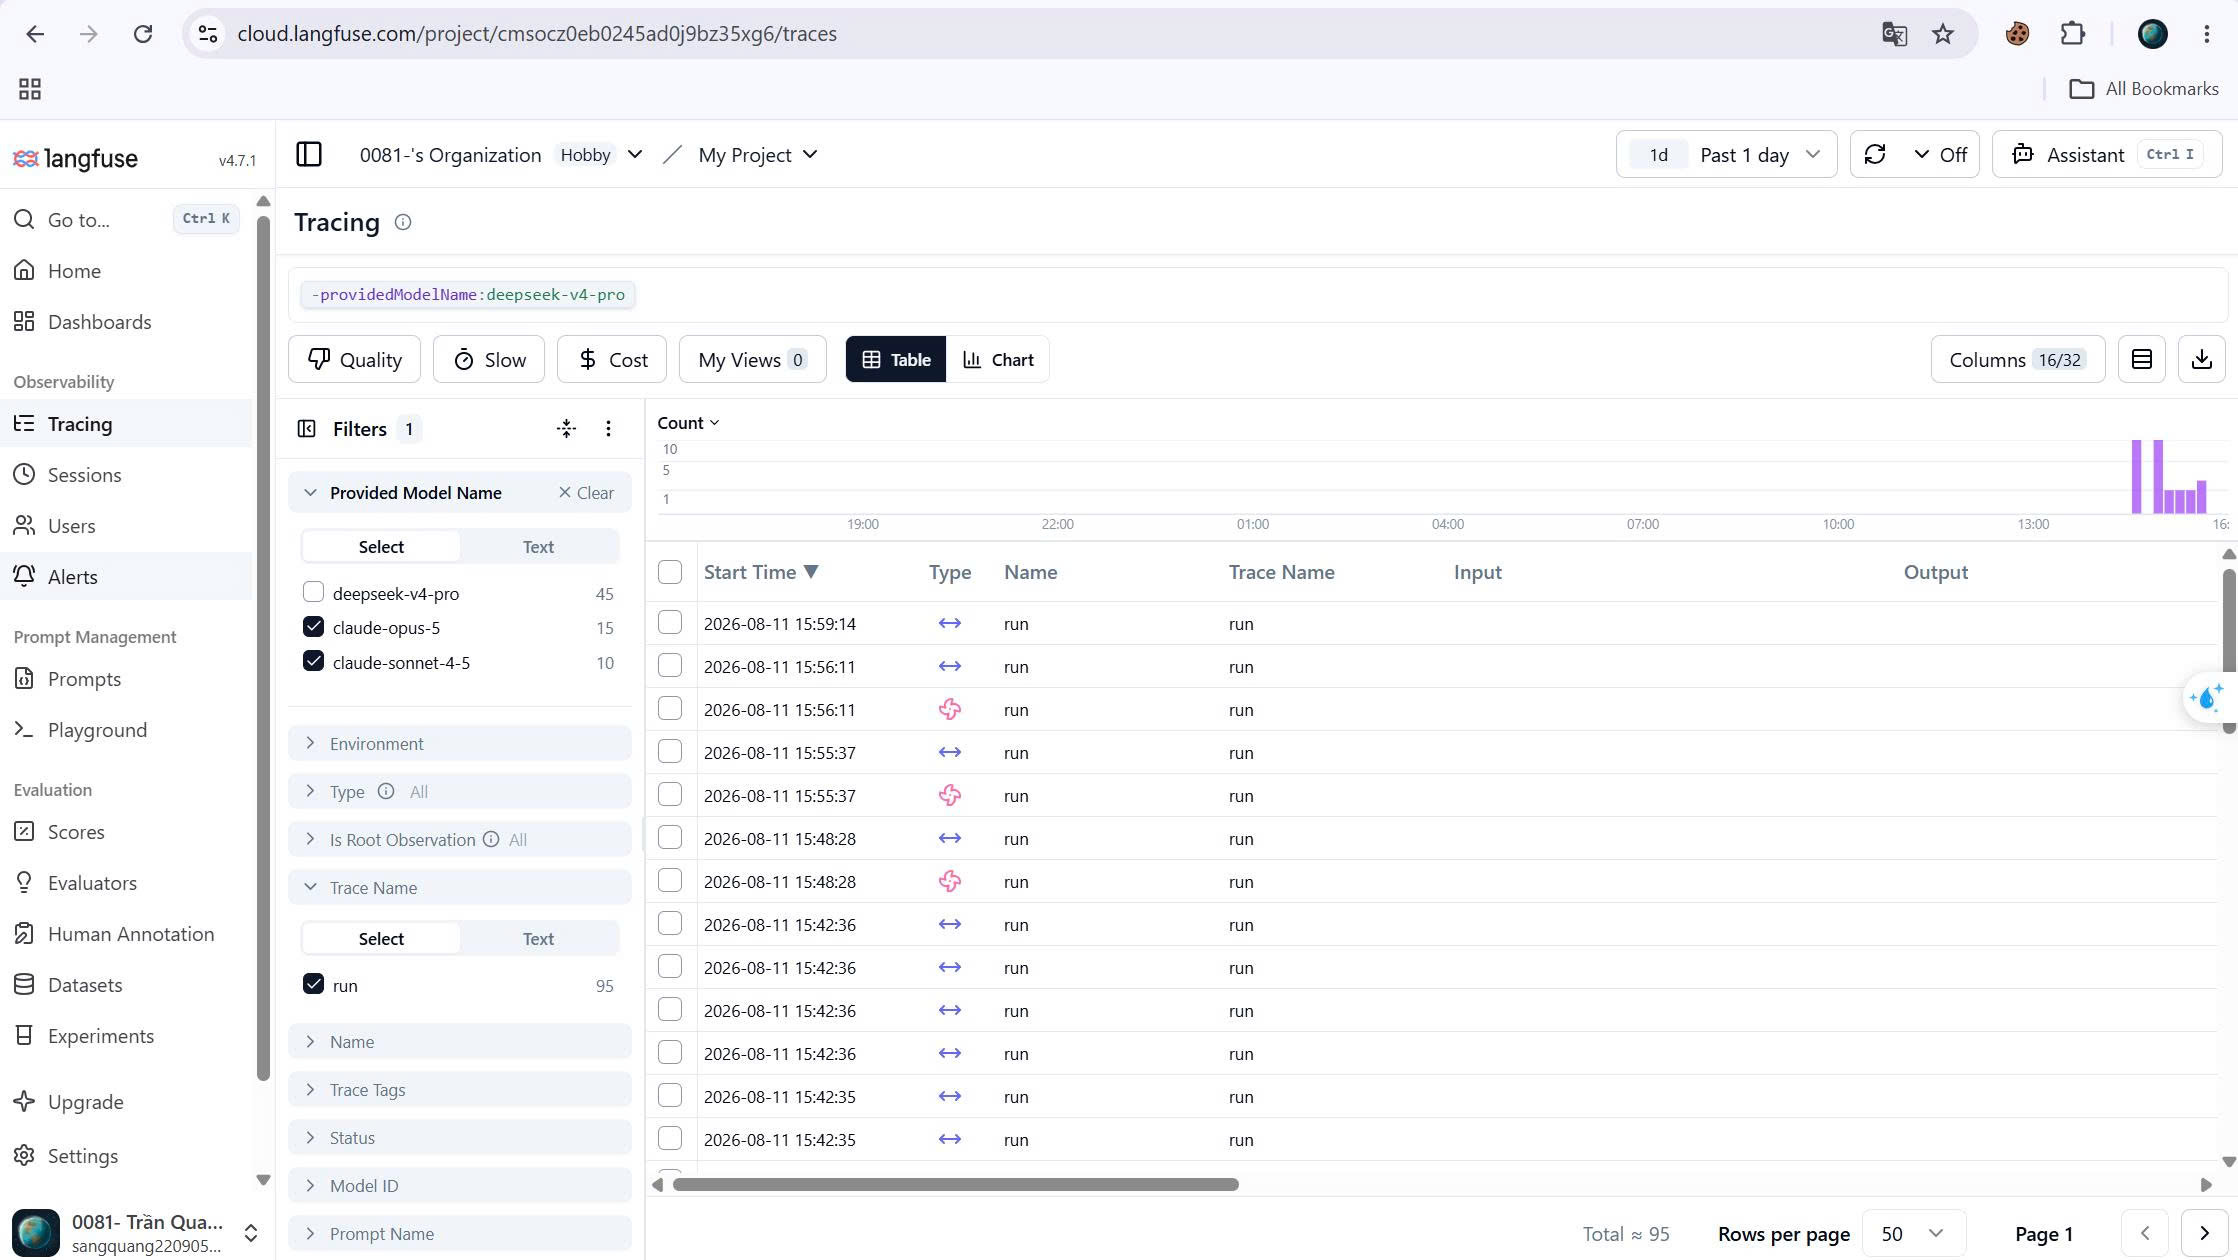
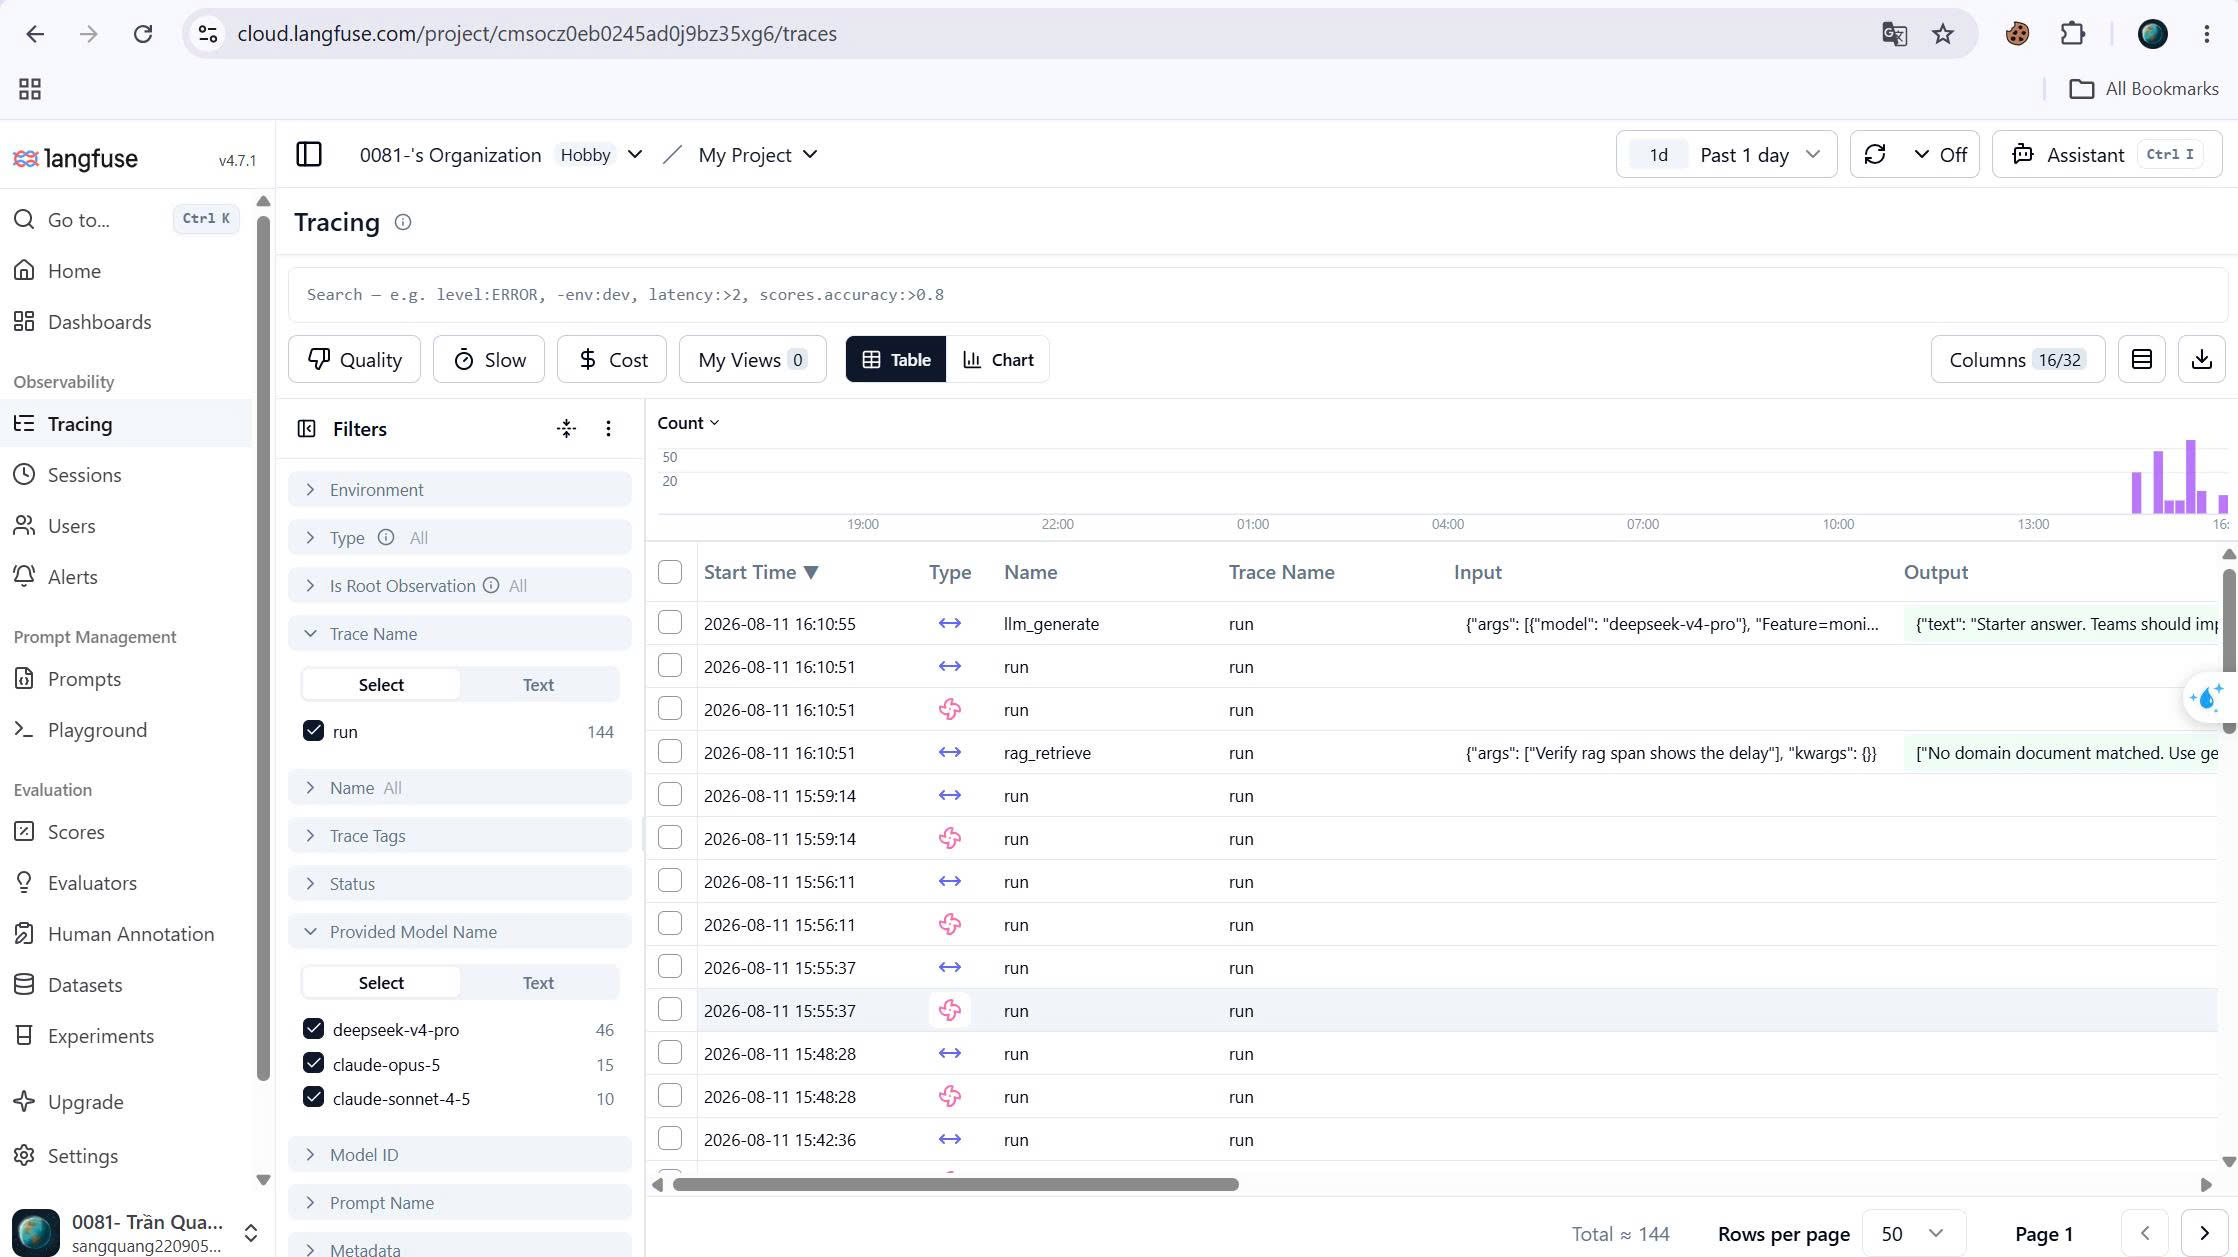
OBS-24: unfiltered traces list screenshot
Retook 04b with the model-exclusion filter cleared: 144 records across deepseek-v4-pro, claude-opus-5 and claude-sonnet-4-5, and the new rag_retrieve and llm_generate spans are visible in the table. Report section 3 updated to match.

diff --git a/submission/REPORT.md b/submission/REPORT.md
@@ -46,8 +46,9 @@ Chi tiết baseline → hiện tại:
   `[REDACTED_EMAIL]`, `[REDACTED_PHONE_VN]`, `[REDACTED_CCCD]`, `[REDACTED_CREDIT_CARD]`,
   `[REDACTED_PASSPORT]`, `[REDACTED_ADDRESS_VN]`, không còn chuỗi nguyên văn nào.
 - Evidence trace waterfall: `submission/evidence/04c-trace-waterfall.png` (một trace đầy đủ) và
-  `submission/evidence/04b-traces-list.png` (danh sách, lọc theo tag `deepseek-v4-pro`:
-  44 observation type GENERATION + 44 type SPAN).
+  `submission/evidence/04b-traces-list.png` (danh sách Tracing, không lọc — tổng ≈ 144 bản ghi
+  trên 3 model: `deepseek-v4-pro` 46, `claude-opus-5` 15, `claude-sonnet-4-5` 10; nhìn thấy cả
+  span `rag_retrieve` và `llm_generate` mới bổ sung).
 - Giải thích một span đáng chú ý: trace `b90d099f068854c7f281456af859d499` (session `s10`,
   user `105a9cef3903` — đã hash) có **2 observation**: một root SPAN `run` (0.15s) và một
   GENERATION `run` (0.15s) lồng bên trong, cost $0.002565, 211 token. Hai observation này
